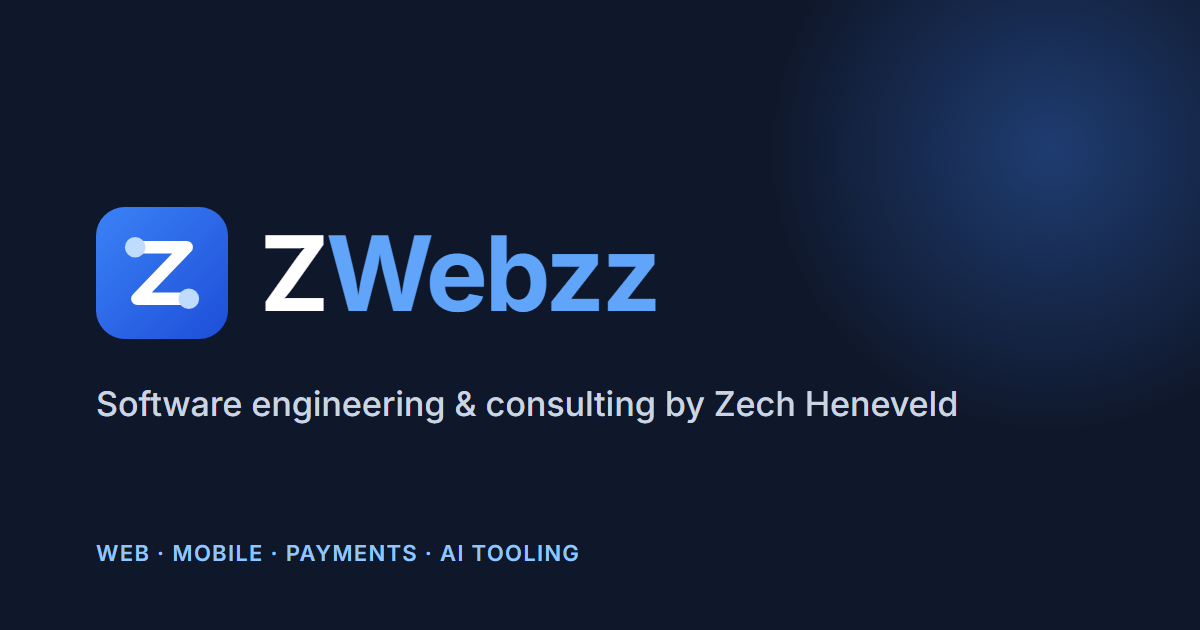
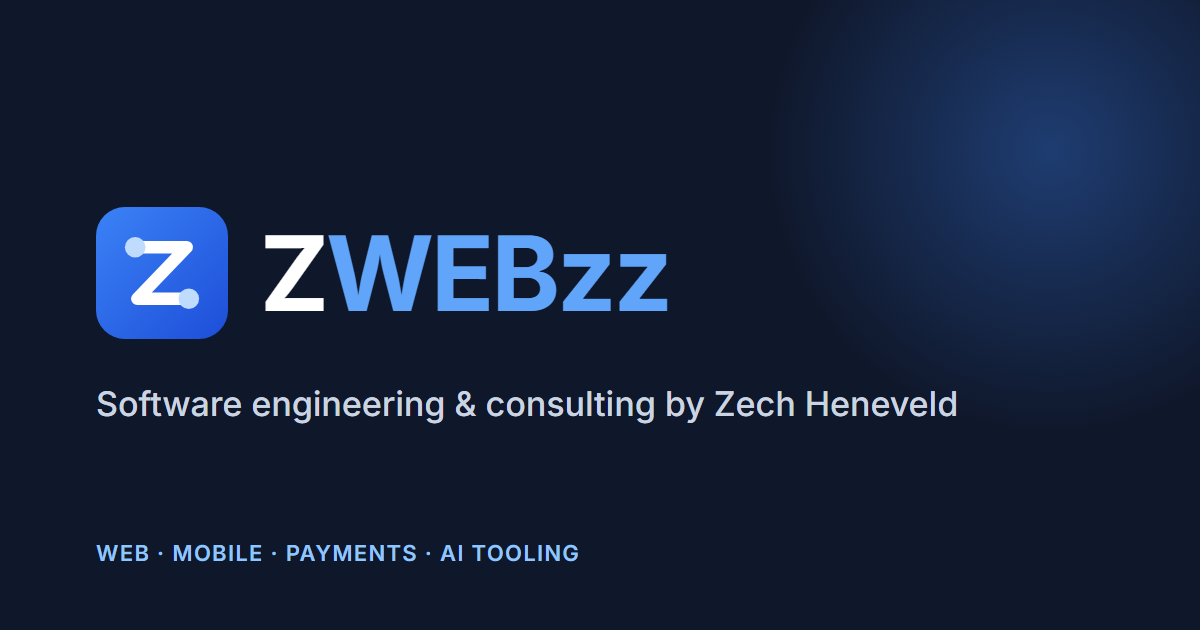
Spell brand as ZWEBzz

Changed region(s): [[0.3392, 0.3619, 0.555, 0.5127]]

diff --git a/index.html b/index.html
@@ -3,16 +3,16 @@
 <head>
   <meta charset="utf-8">
   <meta name="viewport" content="width=device-width, initial-scale=1">
-  <title>ZWebzz — Software engineering &amp; consulting by Zech Heneveld</title>
-  <meta name="description" content="ZWebzz is the software consultancy of Zech Heneveld, who builds production software end to end: marketplaces, e-commerce, mobile apps, education platforms and AI-assisted engineering tools. Available for consulting.">
-  <meta property="og:title" content="ZWebzz — Software engineering &amp; consulting by Zech Heneveld">
+  <title>ZWEBzz — Software engineering &amp; consulting by Zech Heneveld</title>
+  <meta name="description" content="ZWEBzz is the software consultancy of Zech Heneveld, who builds production software end to end: marketplaces, e-commerce, mobile apps, education platforms and AI-assisted engineering tools. Available for consulting.">
+  <meta property="og:title" content="ZWEBzz — Software engineering &amp; consulting by Zech Heneveld">
   <meta property="og:description" content="Full-stack products, payments, mobile apps and AI-assisted engineering tools, shipped to production.">
   <meta property="og:type" content="website">
   <meta property="og:url" content="https://zechheneveld.github.io/portfolio-website/">
   <meta property="og:image" content="https://zechheneveld.github.io/portfolio-website/assets/og-image.png">
   <meta property="og:image:width" content="1200">
   <meta property="og:image:height" content="630">
-  <meta property="og:image:alt" content="ZWebzz: software engineering and consulting by Zech Heneveld">
+  <meta property="og:image:alt" content="ZWEBzz: software engineering and consulting by Zech Heneveld">
   <meta name="twitter:card" content="summary_large_image">
   <meta name="theme-color" content="#0f172a">
   <link rel="icon" type="image/svg+xml" href="assets/logo.svg">
@@ -28,7 +28,7 @@
 
   <header class="nav">
     <div class="wrap nav-inner">
-      <a href="#top" class="brand"><img class="mark" src="assets/logo.svg" alt="" width="32" height="32"> <span class="wordmark">Z<span>Webzz</span></span></a>
+      <a href="#top" class="brand"><img class="mark" src="assets/logo.svg" alt="" width="32" height="32"> <span class="wordmark">Z<span>WEBzz</span></span></a>
       <nav aria-label="Primary">
         <a href="#work">Work</a>
         <a href="#services">Services</a>
@@ -42,7 +42,7 @@
     <!-- HERO -->
     <section class="hero" id="top">
       <div class="wrap">
-        <p class="eyebrow">ZWebzz · Zech Heneveld, software engineer &amp; consultant</p>
+        <p class="eyebrow">ZWEBzz · Zech Heneveld, software engineer &amp; consultant</p>
         <h1>I build software that ships, and keeps working after it does.</h1>
         <p class="lede">
           Marketplaces with escrow payments, e-commerce stores with a built-in CRM, cross-platform mobile apps,
@@ -323,7 +323,7 @@
 
   <footer class="footer">
     <div class="wrap footer-inner">
-      <span>© <span id="year">2026</span> ZWebzz · Zech Heneveld</span>
+      <span>© <span id="year">2026</span> ZWEBzz · Zech Heneveld</span>
       <a href="#top">Back to top ↑</a>
     </div>
   </footer>

diff --git a/README.md b/README.md
@@ -1,6 +1,6 @@
-# ZWebzz website
+# ZWEBzz website
 
-Portfolio and consulting site for ZWebzz (Zech Heneveld). Plain HTML, CSS and a little JavaScript: no build step.
+Portfolio and consulting site for ZWEBzz (Zech Heneveld). Plain HTML, CSS and a little JavaScript: no build step.
 
 ## Run locally
 
